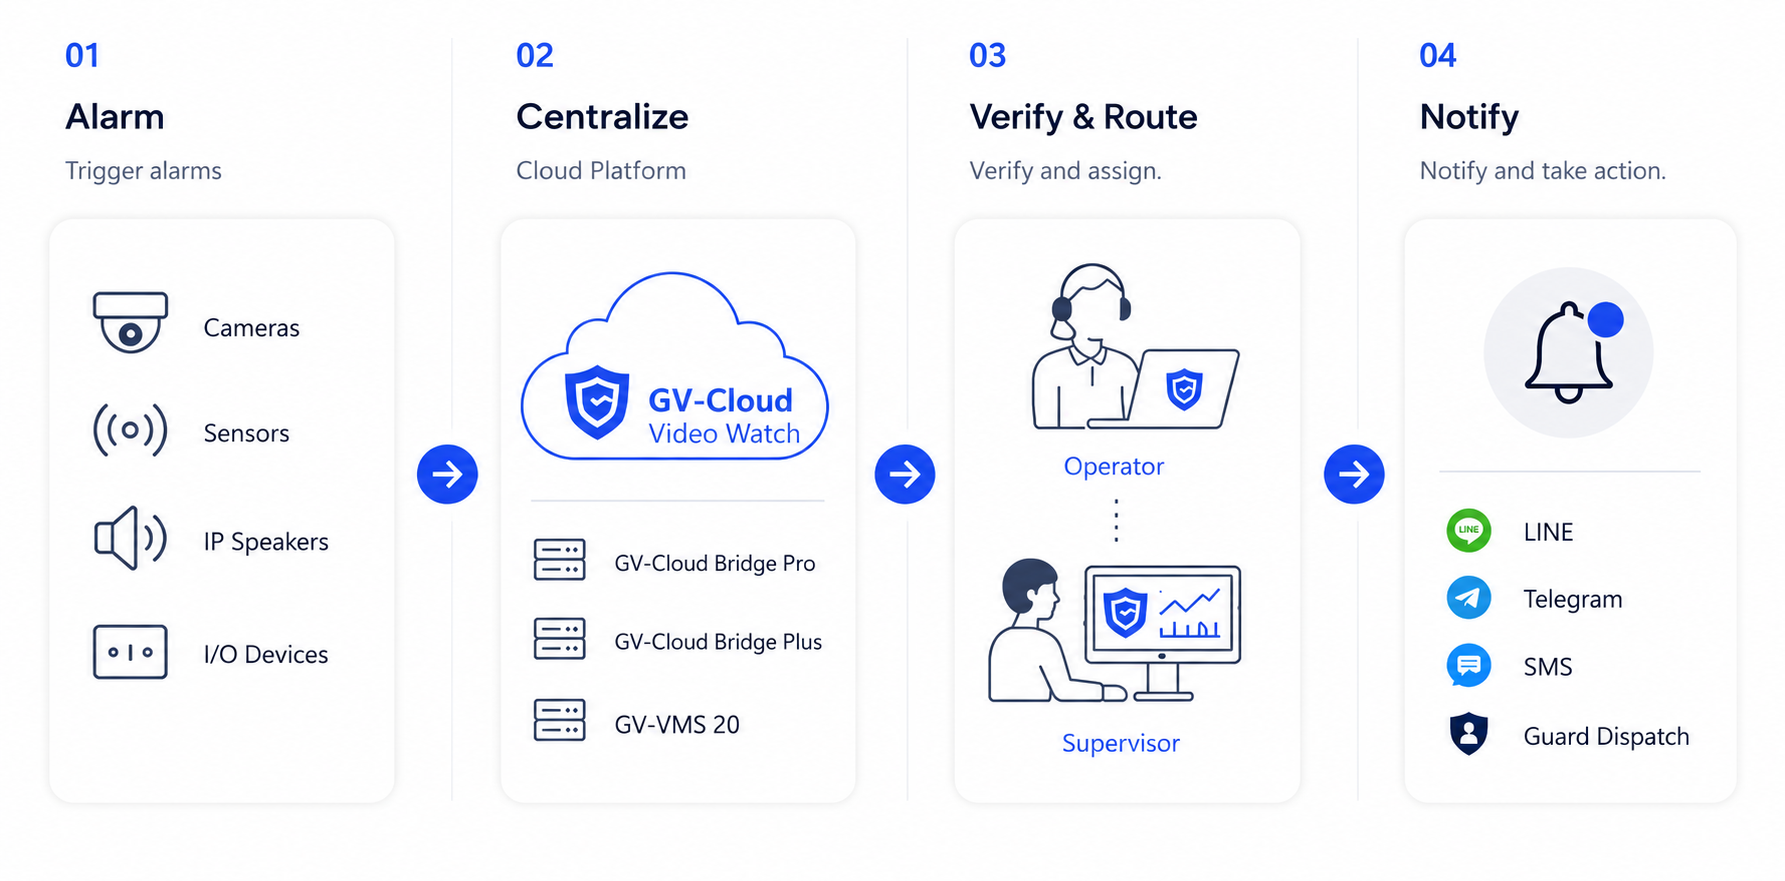
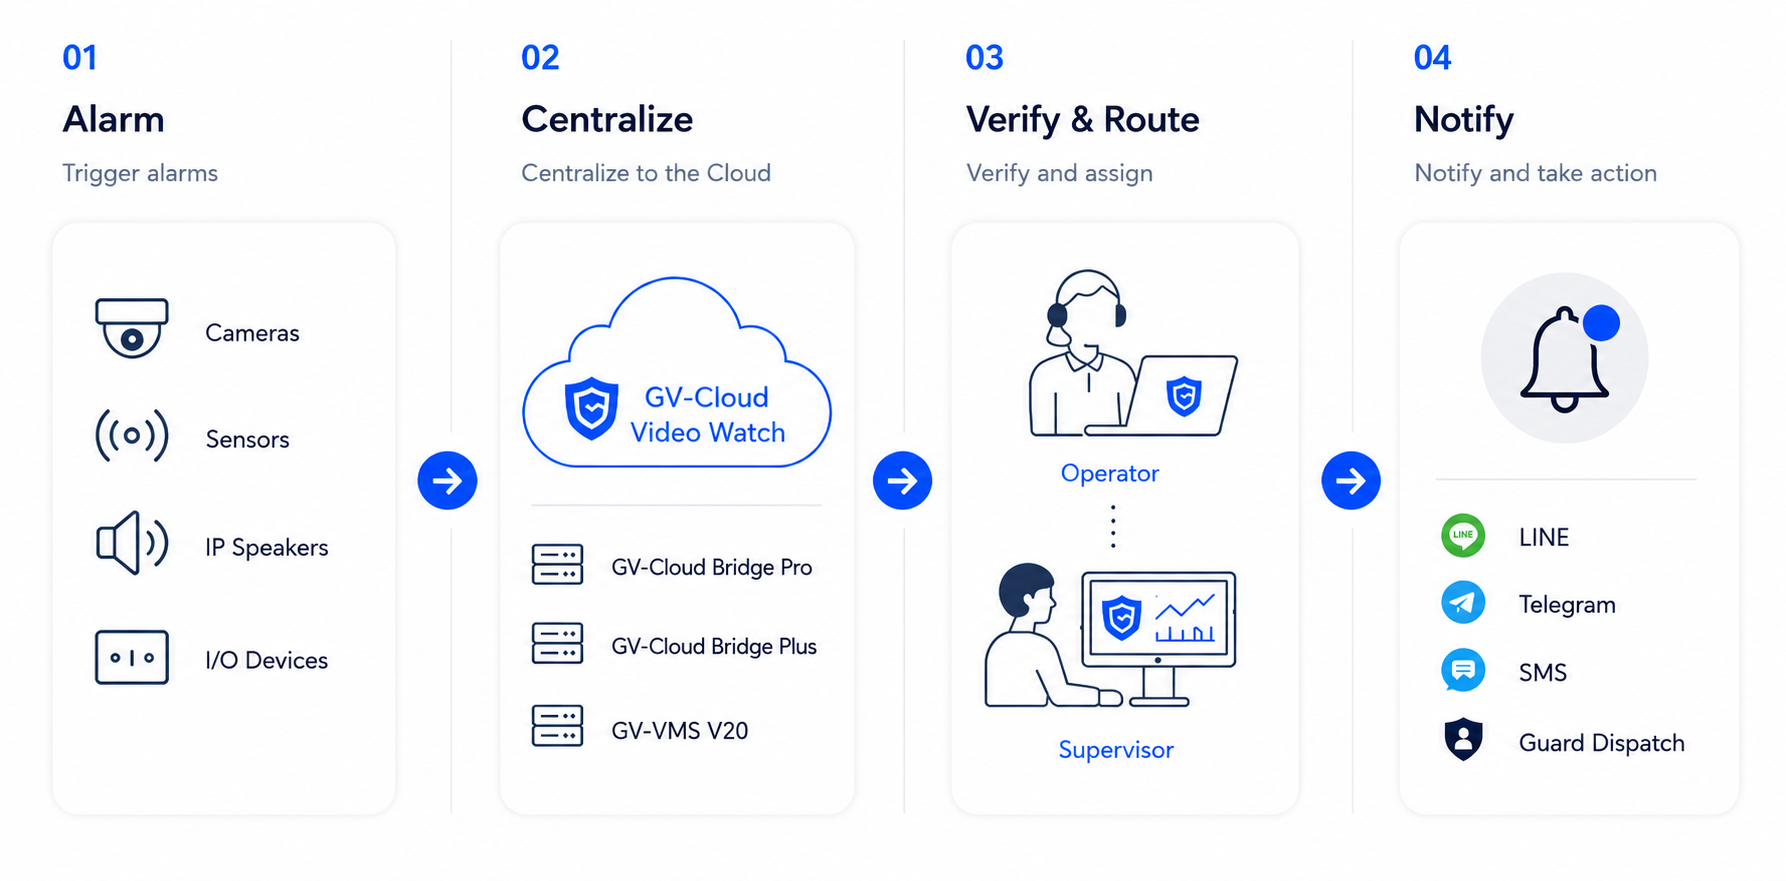
Update GV-CVW visuals

diff --git a/gv-cvw/index.html b/gv-cvw/index.html
@@ -48,7 +48,7 @@
               <span>Cloud Console</span>
               <span>Live Event</span>
             </div>
-            <img src="assets/operator.jpg" alt="GV-CVW Operator Viewer showing event verification" />
+            <img src="assets/interface.png" alt="GV-CVW Operator Viewer showing event verification" />
             <figcaption class="hero-callout evidence-callout">
               <span>Event evidence</span>
               <strong>An annotated video snapshot is linked to the case record</strong>